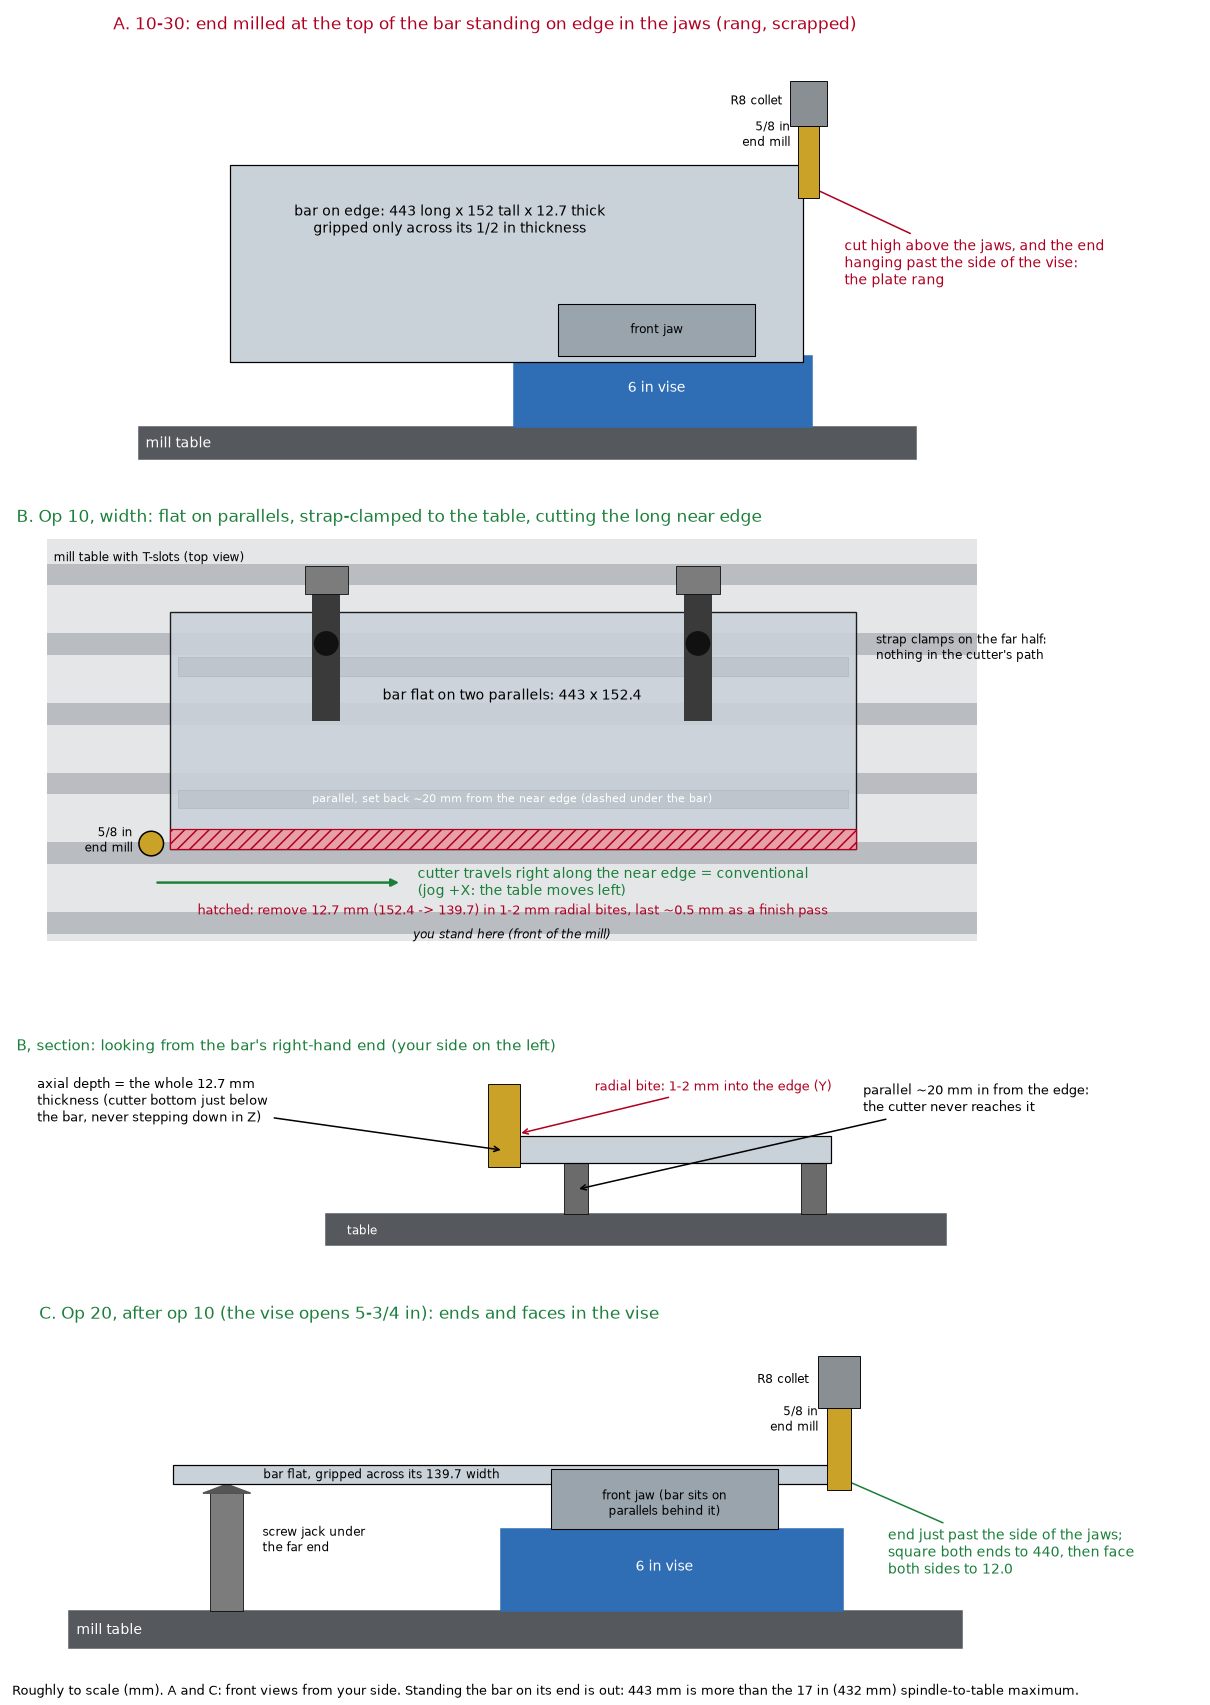
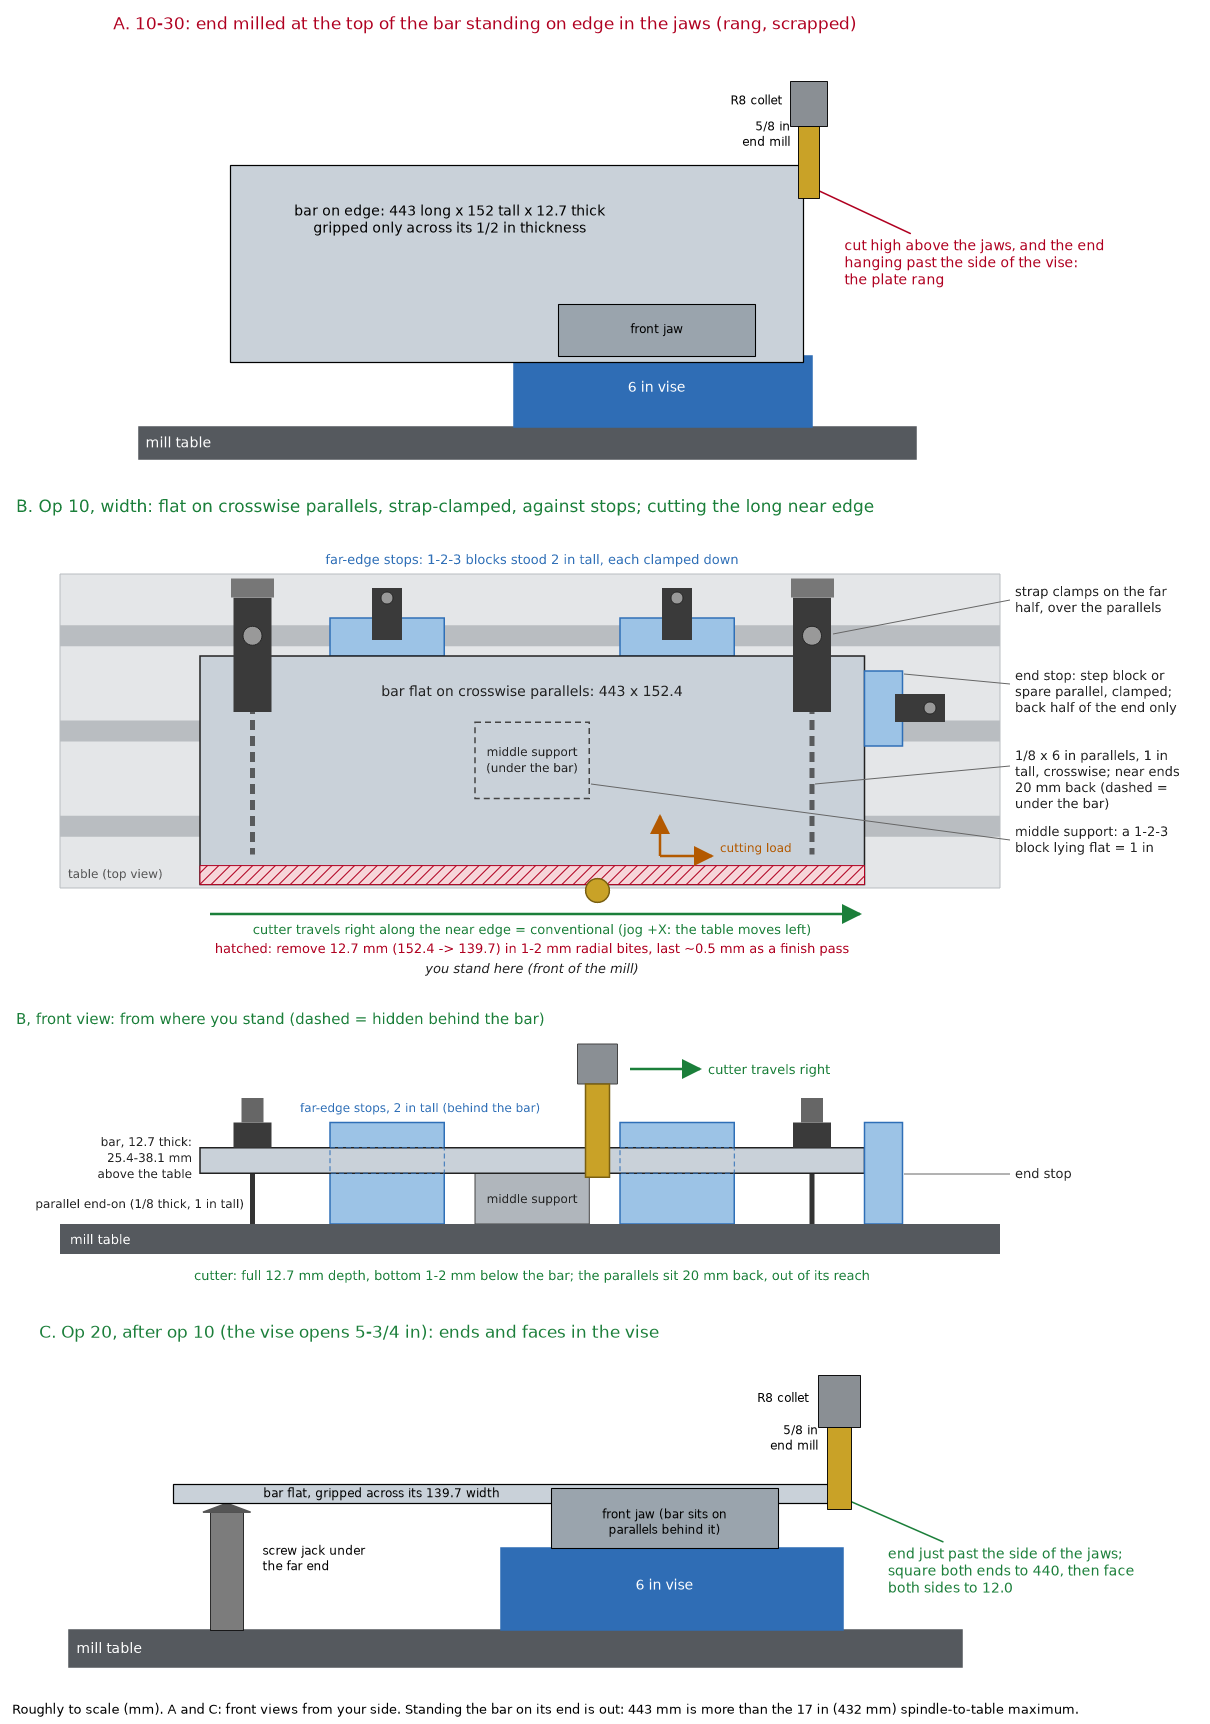
logbook: op 10 on crosswise parallels against stops (2026-10-30 advice)
The owner pointed out that the op 10 advice gave the bar no positive stop:
it lay on parallels under two straps, held against the cut by friction
alone, while conventional milling along the near edge pushes it away and to
the right. The advice also assumed two parallels could run the 443 mm
length, but the shop's LMS 6745 set is 1/8 x 6 in in matched pairs
(cad/process/shop/inventory.toml), so that layout leaves most of the bar
unsupported.

The op 10 advice now stands the matched 1 in pair crosswise near the ends,
20 mm back from the near edge, with a 1 in middle support (a flat 1-2-3
block matches the parallels exactly), straps over the parallels, 1-2-3
blocks stood 2 in tall clamped against the far edge and an end stop on the
back half of the right-hand end. It explains that a skewed bar tapers the
width rather than bending the edge, gives the assembly order and a dry run,
and marks the third block / low jack as unverified. Op 20 now puts the
machined edge against the fixed jaw so the ends come out square to it.

Panel B of the setup sketch is redrawn as top and front views of that
layout; panels A and C and the caption are carried over pixel for pixel.

diff --git a/logbook/entries/2026-10-30-pendant-and-roughing-base-bar-to-length.md b/logbook/entries/2026-10-30-pendant-and-roughing-base-bar-to-length.md
@@ -142,25 +142,45 @@ Next time: follow the plan.
 I asked Claude for advice after the session. None of this has been tried at the
 machine yet; the next entry will say what held up.
 
-![Setups for the base bar: what I did, op 10 width on the table, op 20 in the vise](figures/2026-10-30-base-bar-setups.png)
+![Setups for the base bar: what I did, op 10 width on the table against stops, op 20 in the vise](figures/2026-10-30-base-bar-setups.png)
 
 - **Workholding caused the ringing.** The cut was high above the jaws on a
   1/2 in plate, and the end hung past the side of the vise. Both contributed
   (panel A). Lowering the spindle speed is a fine-tune once the setup is stiff,
   not a fix for a floppy one.
-- **Op 10, width first, on the table (panel B).** Lay the bar flat on two
-  parallels running along its length, set about 20 mm back from the near edge,
-  and strap-clamp it on the far half so nothing is in the cutter's path. Cut
+- **Op 10, width first, on the table (panel B).** My parallels are 1/8 in
+  thick and 6 in long in matched pairs, so they can't run the 443 mm length.
+  Stand the 1 in pair crosswise, one 30–40 mm in from each end, with their near
+  ends 20 mm back from the near edge so the cutter never reaches them; they
+  stick out about 20 mm past the far edge. Put a 1 in support under the middle:
+  a 1-2-3 block lying flat is exactly the parallels' height. Strap-clamp the
+  far half, each strap over a parallel, so nothing is in the cutter's path. Cut
   the near long edge with the side of the cutter: axial depth is the whole
   12.7 mm thickness (cutter bottom just below the bar, never stepping down in
   Z), radial bites of 1–2 mm into the edge, 12.7 mm in all (152.4 → 139.7),
   with the last ~0.5 mm as a finish pass. Each pass runs the 443 mm length in
   X. Check the real X travel first.
+- **Op 10 stops (panel B).** Friction alone holds the bar against the cut, and
+  conventional milling along the near edge pushes it away from me and to the
+  right. Clamp 1-2-3 blocks stood 2 in tall against the far edge, beside the
+  parallels, and a step block or spare parallel against the back half of the
+  right-hand end, so the cutter still runs off the end. Clamp each stop to the
+  table on its own; a stop that is only pushed against the bar gets shoved
+  aside. The new edge comes out straight along X whatever angle the bar sits
+  at; a skewed bar only makes the width taper against the as-extruded far
+  edge. If an even width matters, indicate the far edge along X before the
+  stops go on. Order: parallels and middle support, bar, straps snug,
+  indicate, stops clamped, middle support just touching (never lifting the
+  bar), straps tight, then run the whole pass in the air with the spindle off
+  to check the collet clears the straps and the end stop. (Unverified: whether
+  I have a third 1-2-3 block for the middle, or a screw jack that sets as low
+  as 1 in.)
 - **Op 20, ends and faces in the vise (panel C).** At 5½ in wide the bar fits
-  the 5¾ in vise. Lay it flat on parallels with the end just past the side of
-  the jaws and a jack under the far end; square both ends to 440 mm, then face
-  both sides to 12.0 mm. Standing the bar on its end is out: 443 mm is more than
-  the 17 in spindle-to-table maximum.
+  the 5¾ in vise. Lay it flat on parallels with the op 10 edge against the
+  fixed jaw, the end just past the side of the jaws and a jack under the far
+  end; square both ends to 440 mm, so they come out square to the machined
+  edge, then face both sides to 12.0 mm. Standing the bar on its end is out:
+  443 mm is more than the 17 in spindle-to-table maximum.
 - **Climb or conventional.** With the spindle running forward, picture the
   cutter's travel along the part: part on the left is conventional, on the
   right is climb. On the near edge in op 10 that means the cutter travels right
